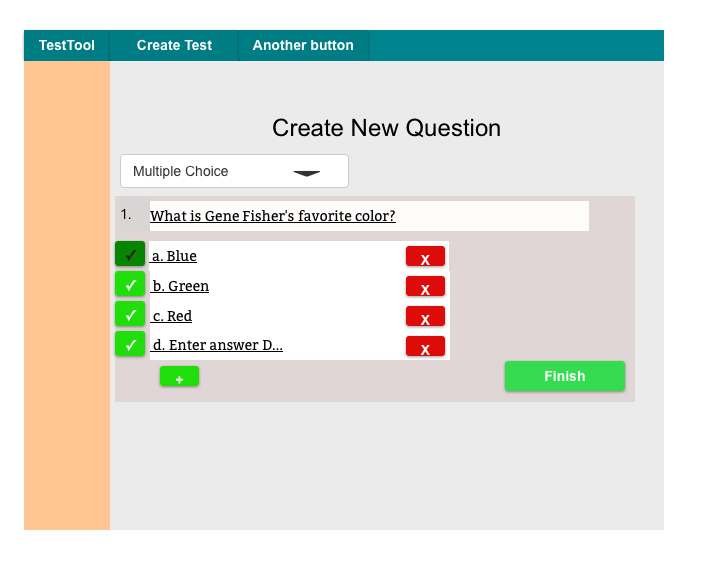
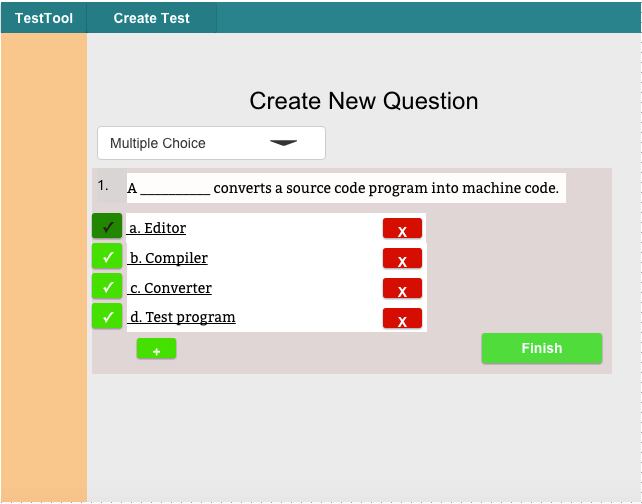
david's requirements changes

Changed region(s): [[0.0, 0.0, 1.0, 1.0], [0.7165, 0.3274, 0.9657, 0.744]]

diff --git a/requirements/create-questions.html b/requirements/create-questions.html
@@ -65,6 +65,17 @@ img {
 <p>
   If the instructor selects long-answer from the dropdown, the question form changes as seen in Figure 3.
   The long-answer question form has a text input box which is disabled, to show what students will see when taking the test. The question prompt is underlined to show it is editable.
+  <br />
+  The radio buttons allow the instructor to choose how the automated grader will assess responses. "Is Exactly" will give points only if the response is equivalent to the instructor's answer. 
+  <br />
+  "Contains Any" allows the instructor to input a comma-separated list of keywords, and will give points based on how many of the keywords are found in the response.
+  <br />
+  "Contains All" allows the instructor to input a comma-separated list of keywords, but will only give points if the student's response contains all of the keywords.
+</p>
+<hr>
+<p align=center>
+  <img src="img/createquestions3-1.png" />
+  <p align=center> Figure 3:  Filled in long-answer question form.  </p>
 </p>
 <hr>
 <p align=center>
@@ -80,6 +91,11 @@ img {
 </p>
 <hr>
 <p align=center>
+  <img src="img/createquestions4-1.png" />
+  <p align=center> Figure 4:  Filled-in Code question form.  </p>
+</p>
+<hr>
+<p align=center>
   <img src="img/createquestions5.png" />
   <p align=center> Figure 5:  Matching Question Form.  </p>
 </p>
@@ -90,6 +106,11 @@ img {
   Each element in the left column corresponds to the same line in the right column. Both columns have editable fields, similar to the multiple-choice options.
   On the test taking view, the options will be randomized. 
 </p>
+<p align=center>
+  <img src="img/createquestions5-1.png" />
+  <p align=center> Figure 5:  Filled-in Matching question form.  </p>
+</p>
+<hr>
 
 <p>
    Once the instructor has filled out their desired question form, the instructor clicks "Finish" and is returned to whichever view brought them to the Create Questions form (Test Bank or Edit Test).
